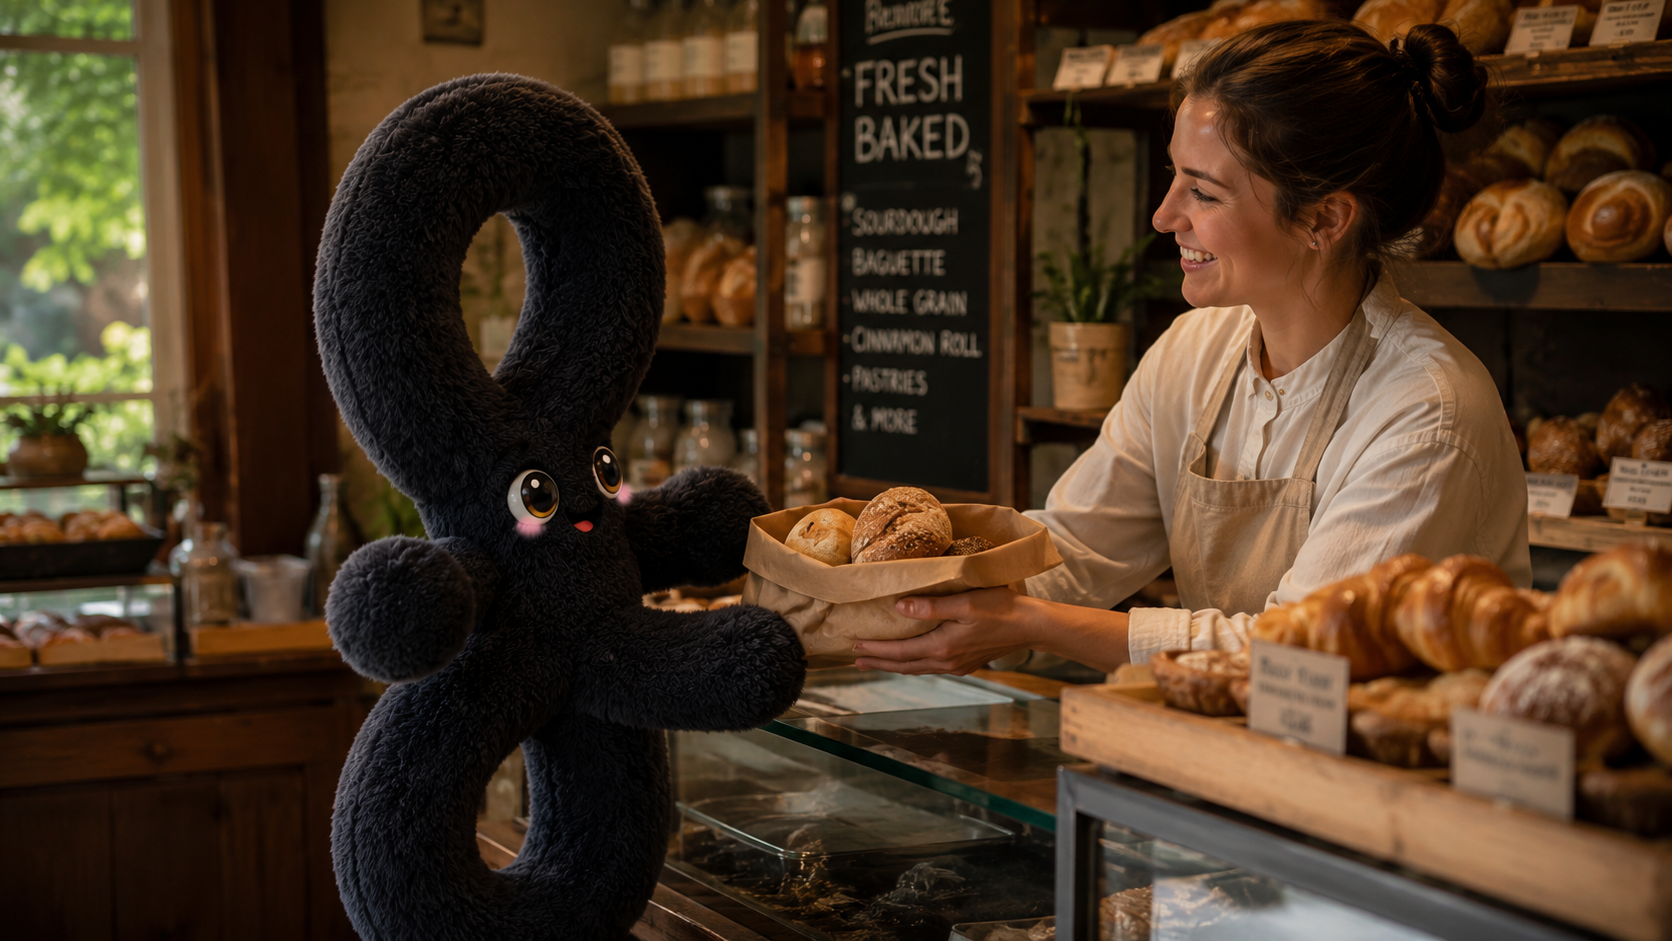
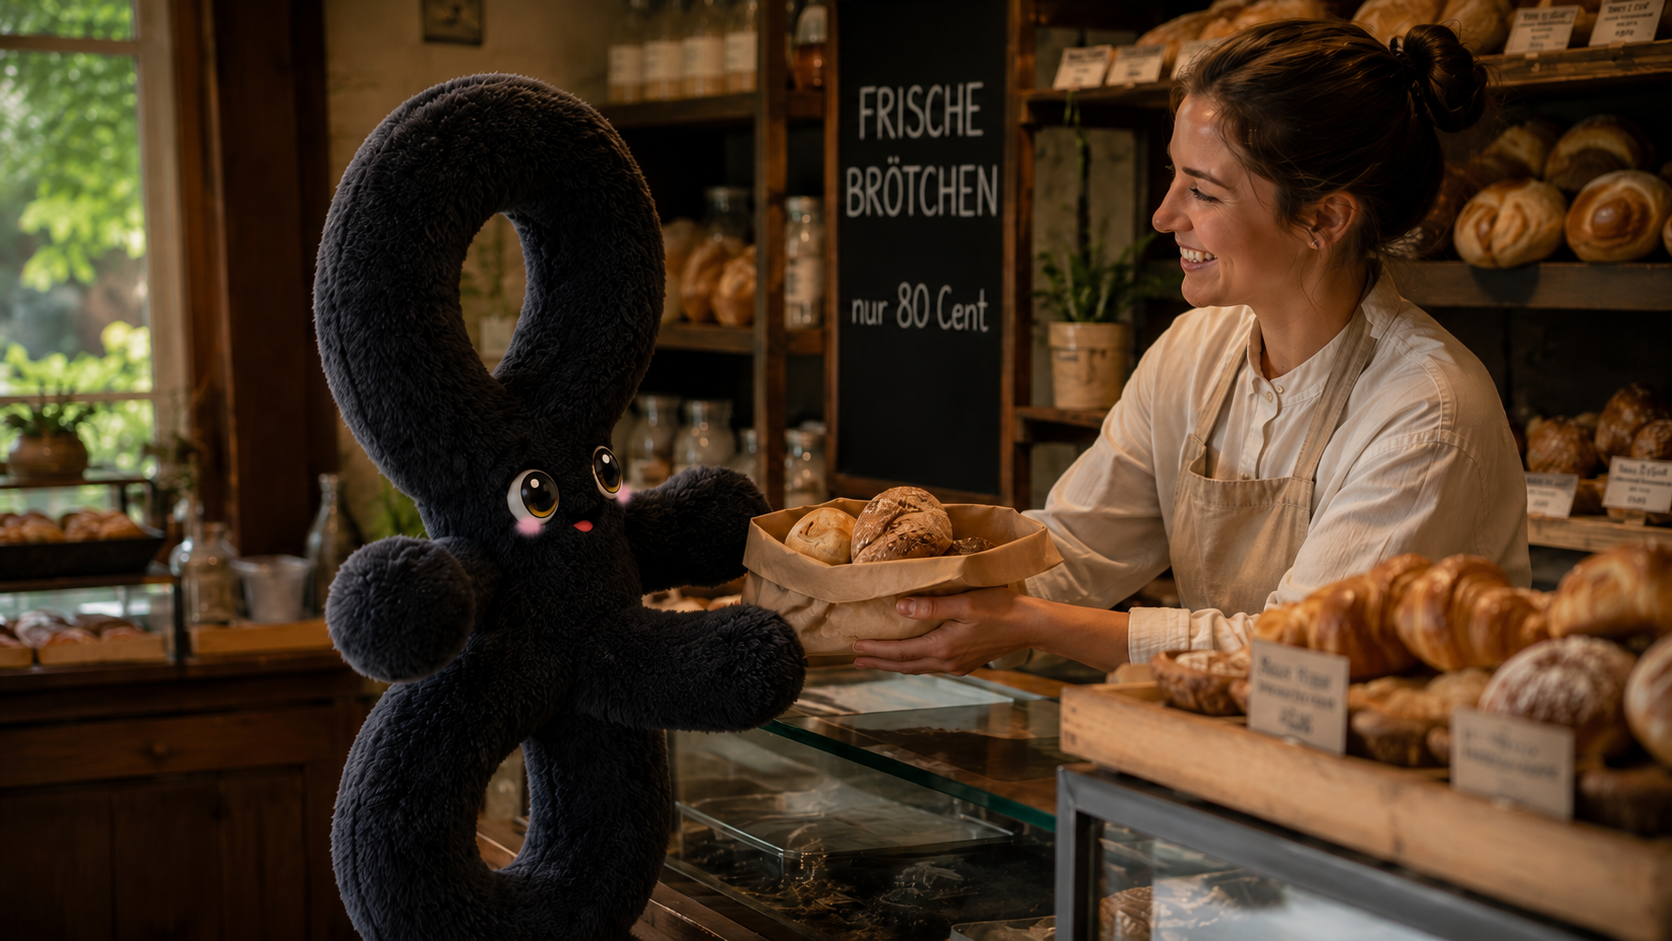
feat: new bakery image, PREMIUM badge on template cards

diff --git a/src/app/page.tsx b/src/app/page.tsx
@@ -207,8 +207,10 @@ export default async function HomePage() {
                           </div>
                         </div>
                       )}
-                      {tpl.isFree && (
+                      {tpl.isFree ? (
                         <div style={{ position: 'absolute', top: 12, right: 12, background: '#16A34A', color: 'white', fontSize: 10, fontWeight: 700, padding: '3px 9px', borderRadius: 100 }}>KOSTENLOS</div>
+                      ) : (
+                        <div style={{ position: 'absolute', top: 12, right: 12, background: '#1a2530', color: '#D4C5E2', fontSize: 10, fontWeight: 700, padding: '3px 9px', borderRadius: 100 }}>PREMIUM</div>
                       )}
                     </div>
                     {/* Info */}